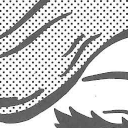
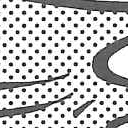
Cut dot test picture at its scanned size

diff --git a/app/src/test/java/com/infinity/comicreader/util/NoticesTest.kt b/app/src/test/java/com/infinity/comicreader/util/NoticesTest.kt
@@ -142,12 +142,12 @@ class NoticesTest {
         val readme = File("../README.md").readText()
         val revoy = Notices.all.single { it.name == "Pepper&Carrot artwork" }
         assertEquals("CC BY 4.0", revoy.license)
-        assertTrue(revoy.note!!.contains("By David Revoy") && revoy.note!!.contains("JPEG-compressed"))
+        assertTrue(revoy.note!!.contains("By David Revoy") && revoy.note.contains("JPEG-compressed"))
         assertTrue(readme.contains("by David Revoy ([Pepper&Carrot](https://www.peppercarrot.com/)), scaled down, the second JPEG-compressed | CC BY 4.0 |"))
         val dots = Notices.all.single { it.url == Notices.PREVIEW_DOTS_URL }
         assertEquals("CC BY 2.0", dots.license)
         assertTrue(dots.note!!.contains("By the Seattle Municipal Archives"))
-        assertTrue(readme.contains("](${Notices.PREVIEW_DOTS_URL}) by the Seattle Municipal Archives, scaled down | CC BY 2.0 |"))
+        assertTrue(readme.contains("](${Notices.PREVIEW_DOTS_URL}) by the Seattle Municipal Archives, at its scanned size, in gray | CC BY 2.0 |"))
         assertTrue(File(assetDir, "cc-by-2.0.txt").readText().startsWith("Attribution 2.0 Generic"))
     }
 

diff --git a/app/src/main/java/com/infinity/comicreader/util/Notices.kt b/app/src/main/java/com/infinity/comicreader/util/Notices.kt
@@ -209,7 +209,7 @@ object Notices {
         ),
         Notice(
             "Water conservation brochure, circa 1985", "CC BY 2.0", PREVIEW_DOTS_URL, listOf("cc-by-2.0.txt"),
-            note = "By the Seattle Municipal Archives. A small cutout, scaled down, is the test picture with dot " +
+            note = "By the Seattle Municipal Archives. A small cutout at its scanned size, in gray, is the test picture with dot " +
                 "patterns an imported model's before and after shows."
         ),
     )

diff --git a/app/src/test/java/com/infinity/comicreader/ai/ModelImportsTest.kt b/app/src/test/java/com/infinity/comicreader/ai/ModelImportsTest.kt
@@ -146,6 +146,10 @@ class ModelImportsTest {
         assertTrue(GrayPages.isGray(pictures[2].second))
         assertFalse(GrayPages.isGray(pictures[0].second))
         assertFalse(GrayPages.isGray(pictures[1].second))
+        // At its scanned size, unresampled: dot centers near black.
+        val dots = pictures[2].second
+        val dark = (0 until 128 * 128).count { i -> (dots.getPixel(i % 128, i / 128) and 0xFF) < 32 }
+        assertTrue("$dark", dark > 128 * 128 * 3 / 100)
     }
 
     @Test

diff --git a/README.md b/README.md
@@ -1651,7 +1651,7 @@ app shows each license and NOTICE text under Settings → About (files in
 | [PaddleOCR](https://github.com/PaddlePaddle/PaddleOCR) PP-OCRv5 mobile text detector, not bundled: downloaded unchanged the first time a cover needs it, a third party's ncnn conversion from a [pinned Hugging Face repository](https://huggingface.co/qefro/pp-OCRv5-6-ncnn) (Apache-2.0; its weights file is from the [PaddleOCR-ncnn-CPP](https://github.com/Avafly/PaddleOCR-ncnn-CPP) v0.3.0 release archive, MIT, as the repository's manifest states) | Apache-2.0 |
 | Material Symbols | Apache-2.0 |
 | Test pictures of a model import's before and after: cutouts of "Portrait of Pepper" and "In Bloom" by David Revoy ([Pepper&Carrot](https://www.peppercarrot.com/)), scaled down, the second JPEG-compressed | CC BY 4.0 |
-| Test picture with dot patterns of a model import's before and after: a cutout of a [water conservation brochure, circa 1985](https://www.flickr.com/photos/seattlemunicipalarchives/44998418715/) by the Seattle Municipal Archives, scaled down | CC BY 2.0 |
+| Test picture with dot patterns of a model import's before and after: a cutout of a [water conservation brochure, circa 1985](https://www.flickr.com/photos/seattlemunicipalarchives/44998418715/) by the Seattle Municipal Archives, at its scanned size, in gray | CC BY 2.0 |
 
 Dual-licensed components are used under Apache-2.0.
 
